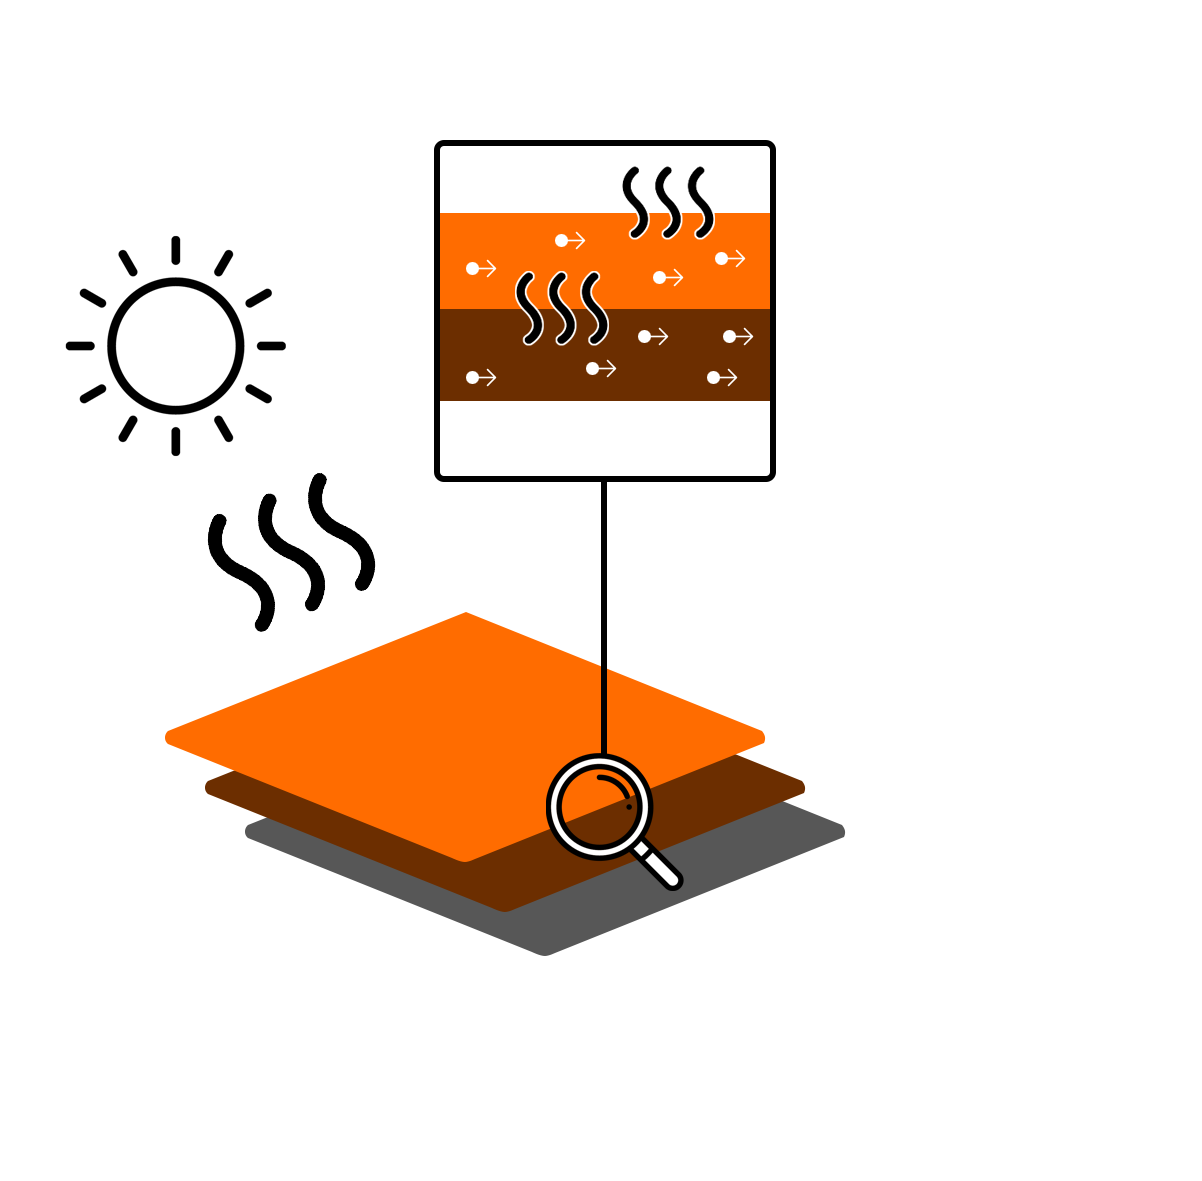
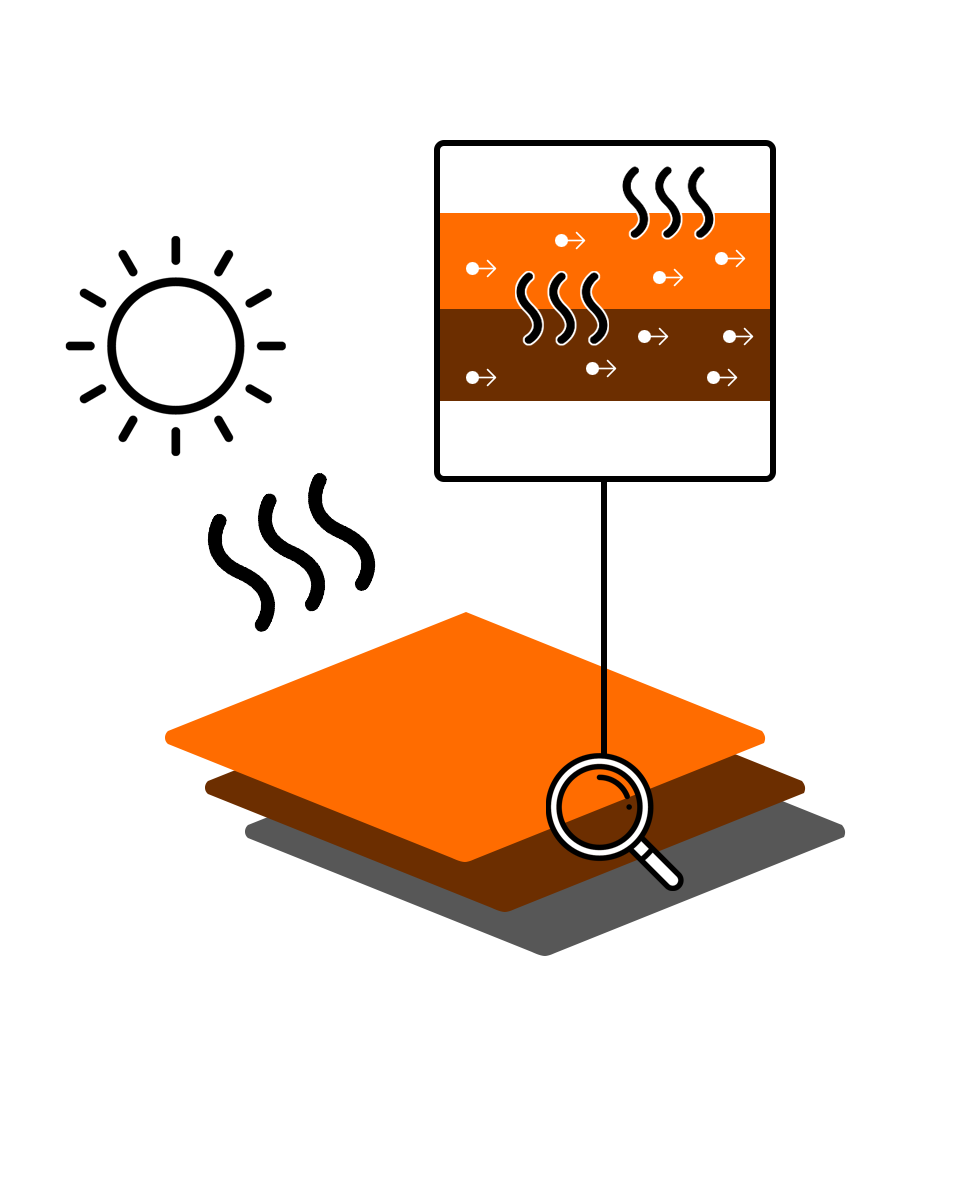
Adding changes to solution

Changed region(s): [[0.1228, 0.0915, 0.8598, 0.8237], [0.0614, 0.1831, 0.3071, 0.3966], [0.3685, 0.0915, 0.4299, 0.122]]

diff --git a/solution.html b/solution.html
@@ -93,7 +93,7 @@
             Our technology features several techniques to harvest energy from sunlight.
             One part of the solution consists of photovoltaic paint.
             This paint contains a light-absobing organic material which convert sunlight to electrical current <a class="source" href="https://www.labroots.com/trending/chemistry-and-physics/18633/photovoltaic-paint-endless-potential">(Sullivan, 2020)</a>.
-            The paint has also sufficient conducting properties which make it possible to connect the material to an electrical circuit.
+            The paint has also sufficient conducting properties which make it possible to connect the layer to an electrical circuit.
             <br><br>
             The second technology is a paint that produces electrical energy from heat.
             Large surfaces like roofs or building facades absorb large amounts of energy and therefore produce heat.
@@ -101,7 +101,7 @@
           </p>
         </div>
         <div class="col-icon combination-icon">
-          <img src="img/suntobulb_fig_horisontal.png" alt="Solar energy and solar paint results in electrical energy">
+          <img id="combination-icon-techniques" src="img/suntobulb_fig_vertical.png" alt="Solar energy and solar paint results in electrical energy">
         </div>
       </div>
 
@@ -193,15 +193,15 @@
         <div class="col-text col-text-solution">
           <h2>How electricity is generated</h2>
           <p id="harvest-description">
-            Sunlight is first absorbed by the photovoltaic paint in layer 1, where 20% of the energy from the sun is converted into electrical current.
-            A large amount of the remaining energy is then turned into heat.
-            The heat increases the temperature in layer 2, which consists of the thermoelectric paint.
-            This causes this layer to produce electrical current.
-            The electrical energy produced is flowing in a closed circuit due to the conducting abilities of layer 2 and 3 and two cables that are connected to layer 1 and 3.
+            Sunlight is first absorbed by the photovoltaic paint in layer one, where 20% of the energy from the sun is converted into electrical current.
+            A large portion of the remaining energy is then turned into heat.
+            The heat increases the temperature in layer two, which consists of the thermoelectric paint.
+            As a result, the heat is converted into electrical current by the thermoelectric material.
+            The electrical energy produced is flowing in a closed circuit due to the conducting abilities of all three layers and two cables that are connected to layer one and three.
           </p>
         </div>
         <div class="col-icon combination-icon">
-          <img aria-describedby="harvest-description" src="img/LayerFigure_coating_zoom.png" alt="A figure that ilustrates the flow of electrons between the two layers">
+          <img aria-describedby="harvest-description" src="img/LayerFigure_coating_zoom.png" alt="A figure that ilustrates the flow of electrons between the three layers">
         </div>
       </div>
     </main>

diff --git a/css/index.css b/css/index.css
@@ -358,13 +358,10 @@ main {
   margin-top: 4rem;
 }
 .source {
-  color: blue;
+  color: #f56700;
 }
 .source:hover {
   text-decoration: underline;
-}
-.source:visited {
-  color: rgba(142, 62, 92, 1);
 }
 .row {
   padding: 6rem 10vw 0;
@@ -380,7 +377,7 @@ main {
   width: 40vw;
 }
 .col-text h2 {
-  color: var(--color-orange);
+  color: #f56700;
 }
 .col-text p {
   font-size: 1.4rem;
@@ -436,10 +433,15 @@ main {
   position: relative;
   top: -12rem;
 }
+#combination-icon-techniques {
+  width: 35%;
+}
 .combination-icon > img {
   width: 90%;
 }
 .combination-icon {
+  display: flex;
+  justify-content: center;
   padding: 0;
   padding-left: 10%;
   width: 60vw;
